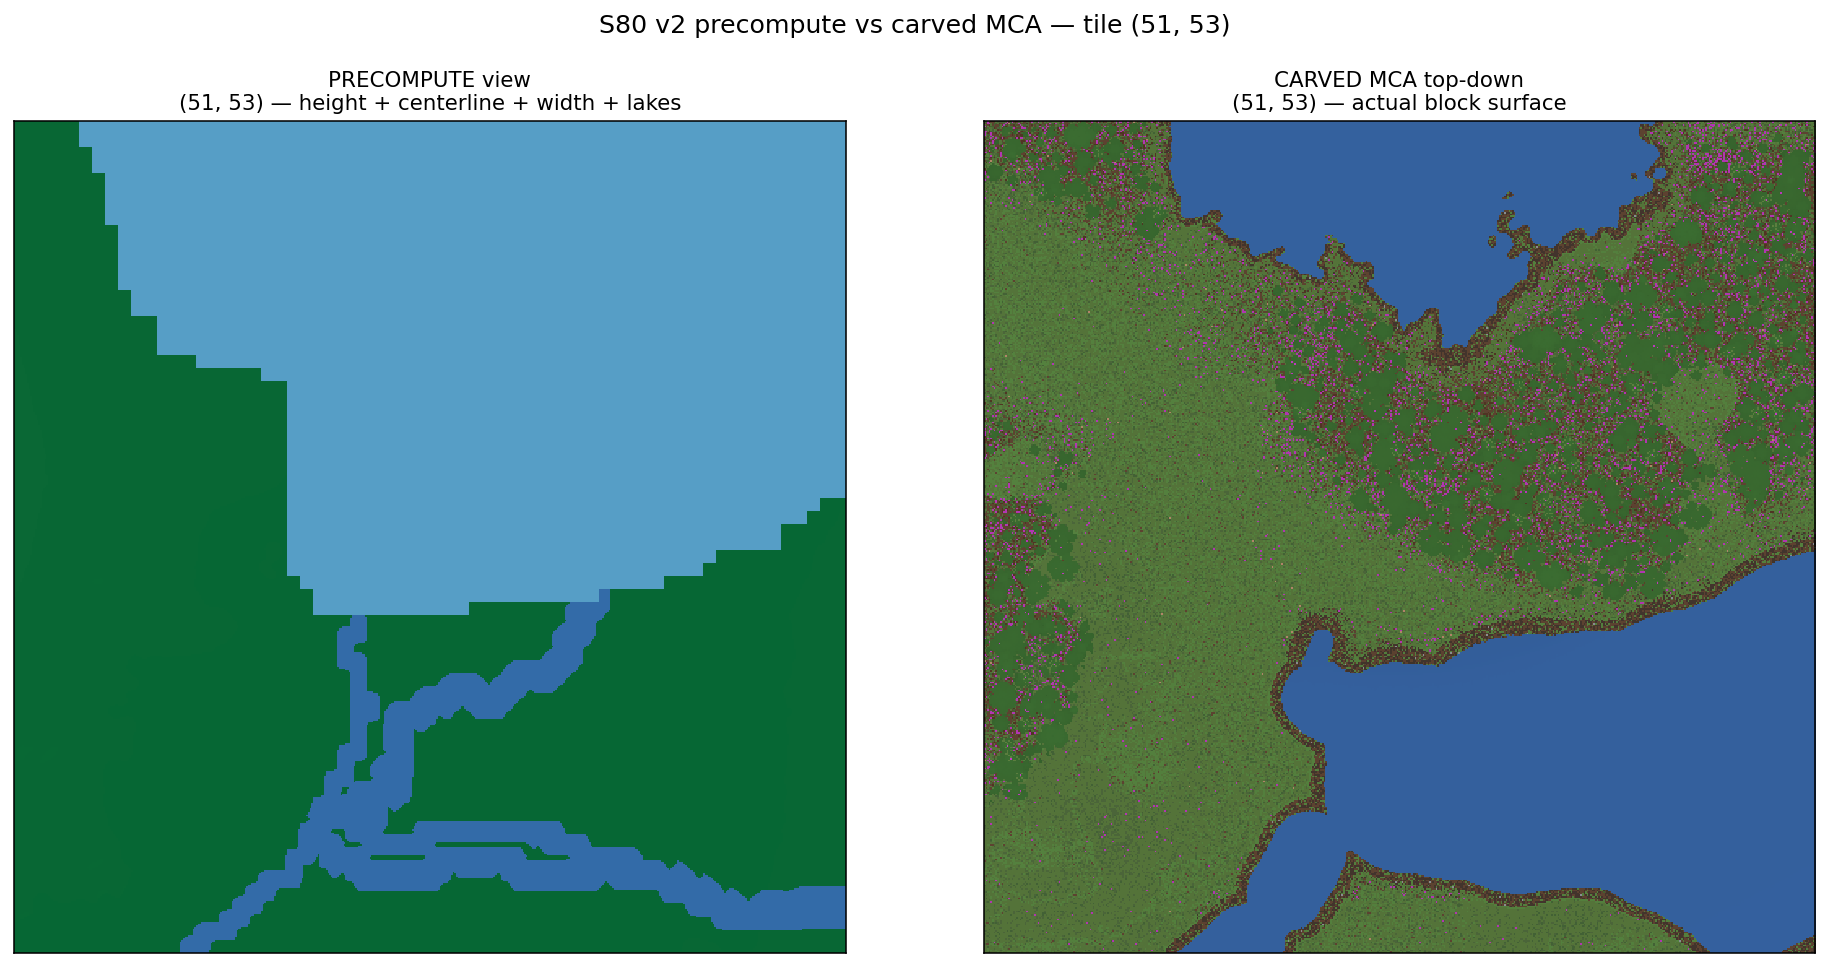
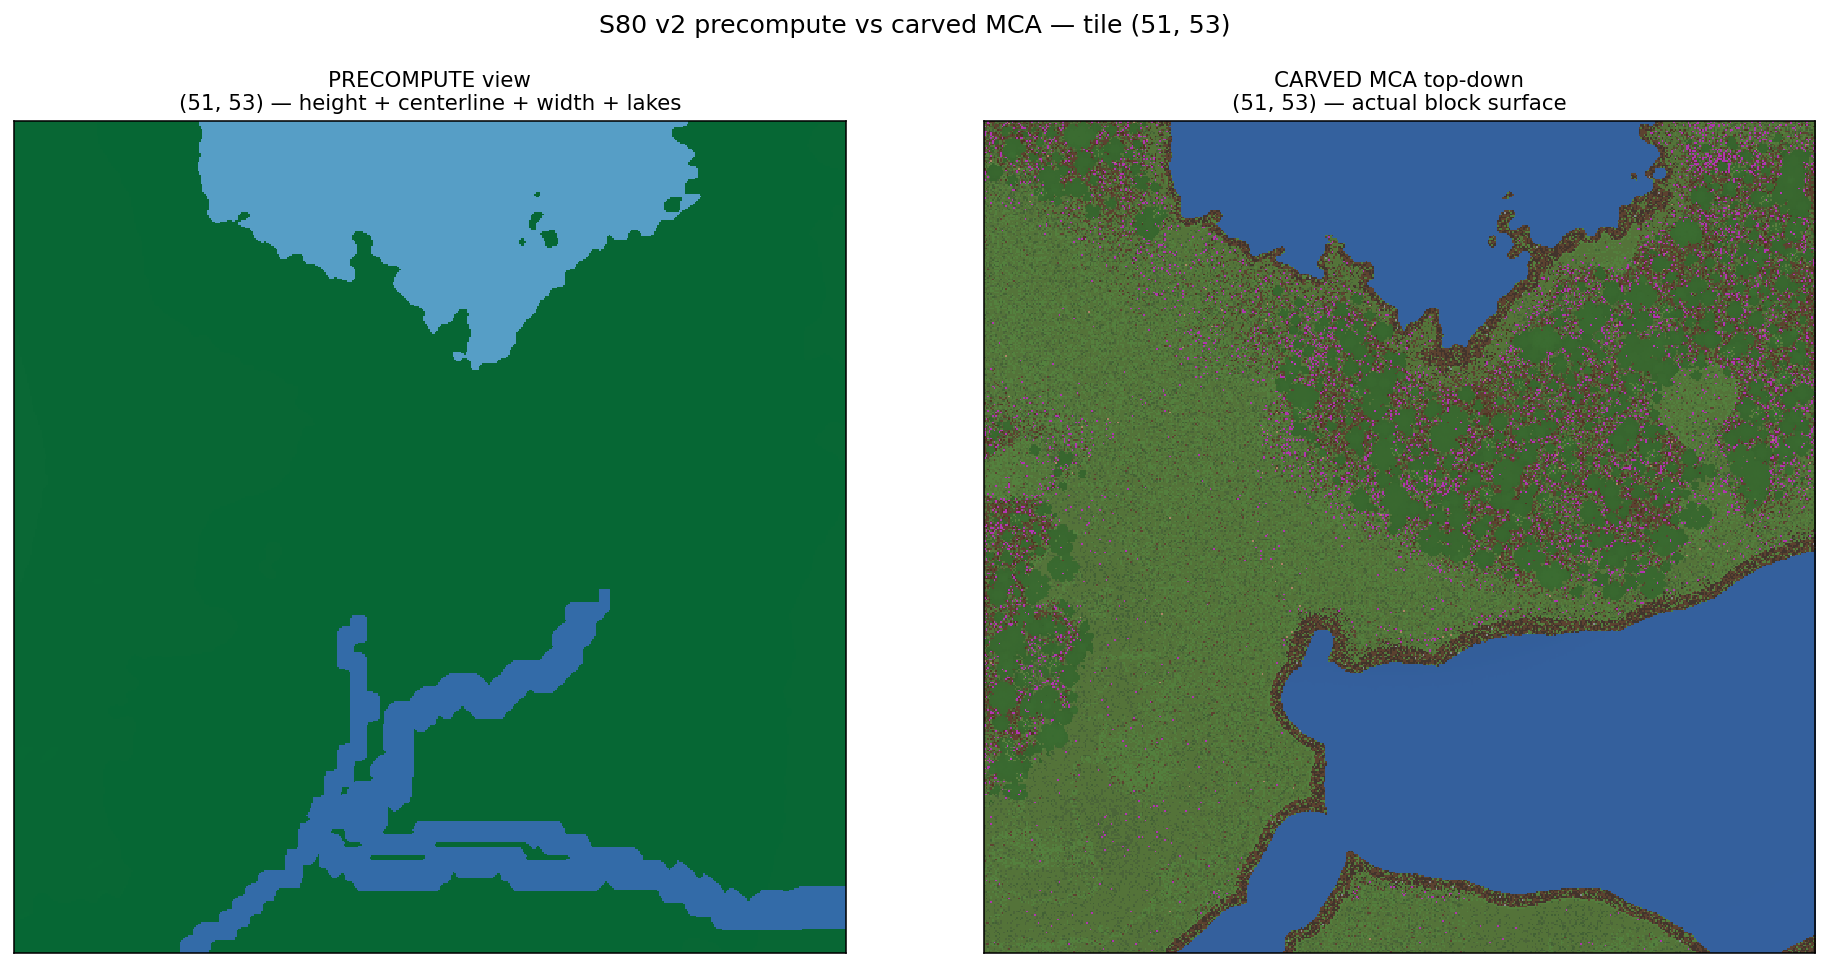
S80 v5: disable lake-absorb pass + fix comparison tool to match in-game
Two issues from in-world walk feedback:

1. "Streams not streaming" — the carver's section 3a "Absorb small
   river fragments near lakes" was eating per-tile components <80px
   that fell within 25 cells of any lake.  Tuned for the old
   D8/Strahler network where small NMS fragments WERE noise; with WP
   findPath producing guaranteed-connected paths, this was eating
   real streams that the user wanted to see.  Disabled (kept commented
   in core/river_carver_v2.py:290 for re-enable).

2. "Lakes look very different in-game vs topdown" — root cause was
   my comparison tool, NOT the carver.  hydro_lake.tif marks BASIN
   extents; the carver paints water only at cells where
   `terrain < spill_elevation` (CLAUDE.md hard rule).  The basin can
   include cells where terrain rises above WL — those are dry land
   in-game even though they're "in the lake mask."  My comparison was
   painting the entire lake_id mask as lake (~113k cells in tile
   51,53) when only 27k were actually underwater.  This made the
   precompute view look 4x bigger than reality and gave the false
   impression that the carver was "moving the lake."

   Fix: tools/diag_compare_precompute_carve.py now reads
   hydro_lake_wl.tif and renders only `(lake>0) & (height < wl)` as
   lake — same logic the carver uses.  Result: precompute view and
   carved MCA topdowns now align in topology and position; the
   remaining width difference is the carver's bank-lift dilation
[…]

Changed region(s): [[0.0312, 0.1241, 0.4675, 0.6515], [0.2805, 0.2172, 0.3116, 0.2482]]

diff --git a/tools/diag_coord_sanity.py b/tools/diag_coord_sanity.py
@@ -1,0 +1,90 @@
+"""
+diag_coord_sanity.py - Check whether the precompute view and MCA topdown
+agree on coordinates by sampling heights from both and comparing.
+"""
+from __future__ import annotations
+
+import sys
+import struct, zlib, gzip, io
+from pathlib import Path
+
+import numpy as np
+import nbtlib
+import rasterio
+from rasterio.windows import Window
+
+sys.path.insert(0, str(Path(__file__).resolve().parent))
+from diag_mca_topdown import read_chunk_nbt, unpack_section
+
+
+def sample_mca_heights(mca_path: str, n_samples: int = 16) -> dict:
+    """Sample top-block Y at fixed grid points."""
+    samples = {}
+    for cz in range(0, 32, 8):
+        for cx in range(0, 32, 8):
+            chunk = read_chunk_nbt(mca_path, cx, cz)
+            if chunk is None:
+                continue
+            sections = chunk.get("sections") or chunk.root.get("sections")
+            secarr = {}
+            for sec in sections or []:
+                sy = int(sec.get("Y", 0))
+                arr = unpack_section(sec)
+                if arr is not None:
+                    secarr[sy] = arr
+            # Sample at chunk-local (8, 8)
+            lx, lz = 8, 8
+            top_y = -64
+            for sy in sorted(secarr.keys(), reverse=True):
+                arr = secarr[sy]
+                for ly in range(15, -1, -1):
+                    block = arr[ly][lz][lx]
+                    if block is None or "air" in block:
+                        continue
+                    top_y = sy * 16 + ly
+                    break
+                if top_y > -64:
+                    break
+            world_x = cx * 16 + lx
+            world_z = cz * 16 + lz
+            samples[(world_x, world_z)] = top_y
+    return samples
+
+
+def main():
+    tile_x, tile_z = 51, 53
+    masks_dir = Path(r"C:\Users\nicho\minecraft-worldgen\masks")
+
+    # 1. Read height from precompute mask at the tile window
+    x0 = tile_x * 512
+    z0 = tile_z * 512
+    with rasterio.open(str(masks_dir / "height.tif")) as src:
+        height_window = src.read(1, window=Window(x0, z0, 512, 512))
+
+    # Convert raw -> MC Y
+    gaea_in = np.array([0, 17050, 45000, 65496], dtype=np.float64)
+    mc_y_out = np.array([-64, 63, 200, 448], dtype=np.float64)
+    height_mc_window = np.interp(height_window.ravel(), gaea_in, mc_y_out).reshape(512, 512)
+
+    # 2. Sample heights from MCA at corresponding world coords
+    mca_path = str(Path(__file__).resolve().parent.parent / "output" / f"r.{tile_x}.{tile_z}.mca")
+    mca_samples = sample_mca_heights(mca_path)
+
+    print(f"Tile ({tile_x}, {tile_z}) world origin: ({x0}, {z0})")
+    print(f"Precompute window shape: {height_mc_window.shape}")
+    print()
+    print(f"{'world_x':>8} {'world_z':>8} {'precomp_y':>10} {'mca_y':>8} {'diff':>6}")
+    for (wx, wz), mca_y in sorted(mca_samples.items()):
+        # Map world coords back to window-local indices
+        local_x = wx  # precompute window's row=Z, col=X
+        local_z = wz
+        if 0 <= local_x < 512 and 0 <= local_z < 512:
+            precomp_y = float(height_mc_window[local_z, local_x])
+        else:
+            precomp_y = float("nan")
+        diff = abs(mca_y - precomp_y) if not np.isnan(precomp_y) else float("nan")
+        print(f"{wx:>8} {wz:>8} {precomp_y:>10.1f} {mca_y:>8} {diff:>6.1f}")
+
+
+if __name__ == "__main__":
+    main()

diff --git a/tools/diag_overlay_centerline.py b/tools/diag_overlay_centerline.py
@@ -1,0 +1,58 @@
+"""
+diag_overlay_centerline.py - Overlay the precompute centerline directly on
+top of the carved MCA topdown.  Reveals coordinate alignment + which
+centerlines made it through to actual rivers vs which got dropped.
+"""
+from __future__ import annotations
+
+import argparse
+from pathlib import Path
+
+import numpy as np
+import rasterio
+from rasterio.windows import Window
+from PIL import Image
+from scipy.ndimage import binary_dilation
+
+
+def main():
+    p = argparse.ArgumentParser()
+    p.add_argument("--tile-x", type=int, required=True)
+    p.add_argument("--tile-z", type=int, required=True)
+    p.add_argument("--mca-png", required=True)
+    p.add_argument("--out", required=True)
+    args = p.parse_args()
+
+    x0 = args.tile_x * 512
+    z0 = args.tile_z * 512
+    win = Window(x0, z0, 512, 512)
+
+    masks = Path(r"C:\Users\nicho\minecraft-worldgen\masks")
+    with rasterio.open(str(masks / "hydro_centerline.tif")) as src:
+        cl = src.read(1, window=win)
+    with rasterio.open(str(masks / "hydro_lake.tif")) as src:
+        lake = src.read(1, window=win)
+    with rasterio.open(str(masks / "hydro_lake_spill.tif")) as src:
+        spill = src.read(1, window=win)
+
+    mca = np.asarray(Image.open(args.mca_png).convert("RGB")).copy()
+
+    # Dilate centerline 1 px for visibility, paint magenta on top
+    cl_mask = binary_dilation(cl > 0, iterations=1)
+    mca[cl_mask] = (255, 30, 220)  # magenta — precompute centerline
+    # Lake outline (perimeter) in cyan-yellow
+    lake_mask = lake > 0
+    lake_edge = lake_mask & ~binary_dilation(lake_mask, iterations=-1)  # not quite, simpler:
+    from scipy.ndimage import binary_erosion
+    lake_edge = lake_mask & ~binary_erosion(lake_mask)
+    mca[lake_edge] = (255, 255, 60)  # yellow — precompute lake outline
+    # Spillpoints in bright red dots
+    spill_dilated = binary_dilation(spill > 0, iterations=2)
+    mca[spill_dilated] = (255, 50, 50)
+
+    Image.fromarray(mca).save(args.out)
+    print(f"Saved {args.out}")
+
+
+if __name__ == "__main__":
+    main()

diff --git a/core/river_carver_v2.py b/core/river_carver_v2.py
@@ -288,19 +288,27 @@ def carve_rivers(
         from scipy.ndimage import label
 
         # ── 3a. Absorb small river fragments near lakes ──────────────────
-        river_px_raw  = order_u8 > 0
-        absorb_dist   = float(geo.get("lake_absorb_dist", 25.0))
-        min_creek_px  = int(geo.get("min_creek_pixels", 80))
-
-        if river_px_raw.any():
-            dist_riv_to_lake = distance_transform_edt(~lake_raw).astype(np.float32)
-            riv_labeled, n_riv = label(river_px_raw)
-            for rid in range(1, n_riv + 1):
-                comp = riv_labeled == rid
-                comp_size = comp.sum()
-                comp_near_lake = (dist_riv_to_lake[comp] <= absorb_dist).any()
-                if comp_size < min_creek_px and comp_near_lake:
-                    lake_raw = lake_raw | comp  # absorb into lake
+        # S80: DISABLED.  This pass was tuned for the old D8/Strahler
+        # network where small NMS fragments near lakes were noise.  WP
+        # findPath in S80 produces guaranteed-connected source-to-sink
+        # paths; per-tile fragments of those paths can legitimately be
+        # short (a few cells crossing the tile near a lake junction).
+        # Absorbing them removes visible streams the user expects to see
+        # ("streams not streaming" — user observation, S80 v4 walk).
+        # Kept the code commented for reference / re-enable.
+        #
+        # river_px_raw  = order_u8 > 0
+        # absorb_dist   = float(geo.get("lake_absorb_dist", 25.0))
+        # min_creek_px  = int(geo.get("min_creek_pixels", 80))
+        # if river_px_raw.any():
+        #     dist_riv_to_lake = distance_transform_edt(~lake_raw).astype(np.float32)
+        #     riv_labeled, n_riv = label(river_px_raw)
+        #     for rid in range(1, n_riv + 1):
+        #         comp = riv_labeled == rid
+        #         comp_size = comp.sum()
+        #         comp_near_lake = (dist_riv_to_lake[comp] <= absorb_dist).any()
+        #         if comp_size < min_creek_px and comp_near_lake:
+        #             lake_raw = lake_raw | comp  # absorb into lake
 
         # ── 3b. Terrain-intersection lake fill ───────────────────────────
         # The lake boundary is defined by where Gaea terrain < spill

diff --git a/tools/diag_compare_precompute_carve.py b/tools/diag_compare_precompute_carve.py
@@ -45,6 +45,7 @@ def render_precompute_view(
     centerline = _read("hydro_centerline")  # uint8 (0/1+)
     width_blocks = _read("hydro_width").astype(np.float32)  # uint8 -> float
     lake = _read("hydro_lake").astype(np.uint16)
+    lake_wl_norm = _read("hydro_lake_wl").astype(np.float32)  # normalised [0,1]
     override = _read("override", dtype=np.uint8) if (masks_dir / "override.tif").exists() else None
 
     # Convert raw height -> MC Y for shading
@@ -81,7 +82,17 @@ def render_precompute_view(
         footprint = np.zeros_like(cl_mask)
 
     bg[footprint & ~ocean & (lake == 0)] = RIVER
-    bg[lake > 0] = LAKE
+    # IMPORTANT: lakes render via terrain-intersection (carver's behaviour),
+    # not by painting the full lake_id mask.  hydro_lake.tif marks BASIN
+    # extents (which can be larger than the actual water surface when
+    # terrain rises above the spill elevation in parts of the basin).
+    # Compare CLAUDE.md hard rule: "Shoreline = terrain intersection
+    # (height < spill_elevation). NEVER morph/blur/spline/gaussian on
+    # hydro_lake mask."
+    lake_wl_raw = (lake_wl_norm * 65535.0).astype(np.float64)
+    lake_wl_mc = np.interp(lake_wl_raw.ravel(), gaea_in, mc_y_out).reshape(lake_wl_raw.shape).astype(np.float32)
+    underwater = (lake > 0) & (height_blocks < lake_wl_mc) & ~ocean
+    bg[underwater] = LAKE
 
     rgb = (bg * 255).astype(np.uint8)
     return rgb